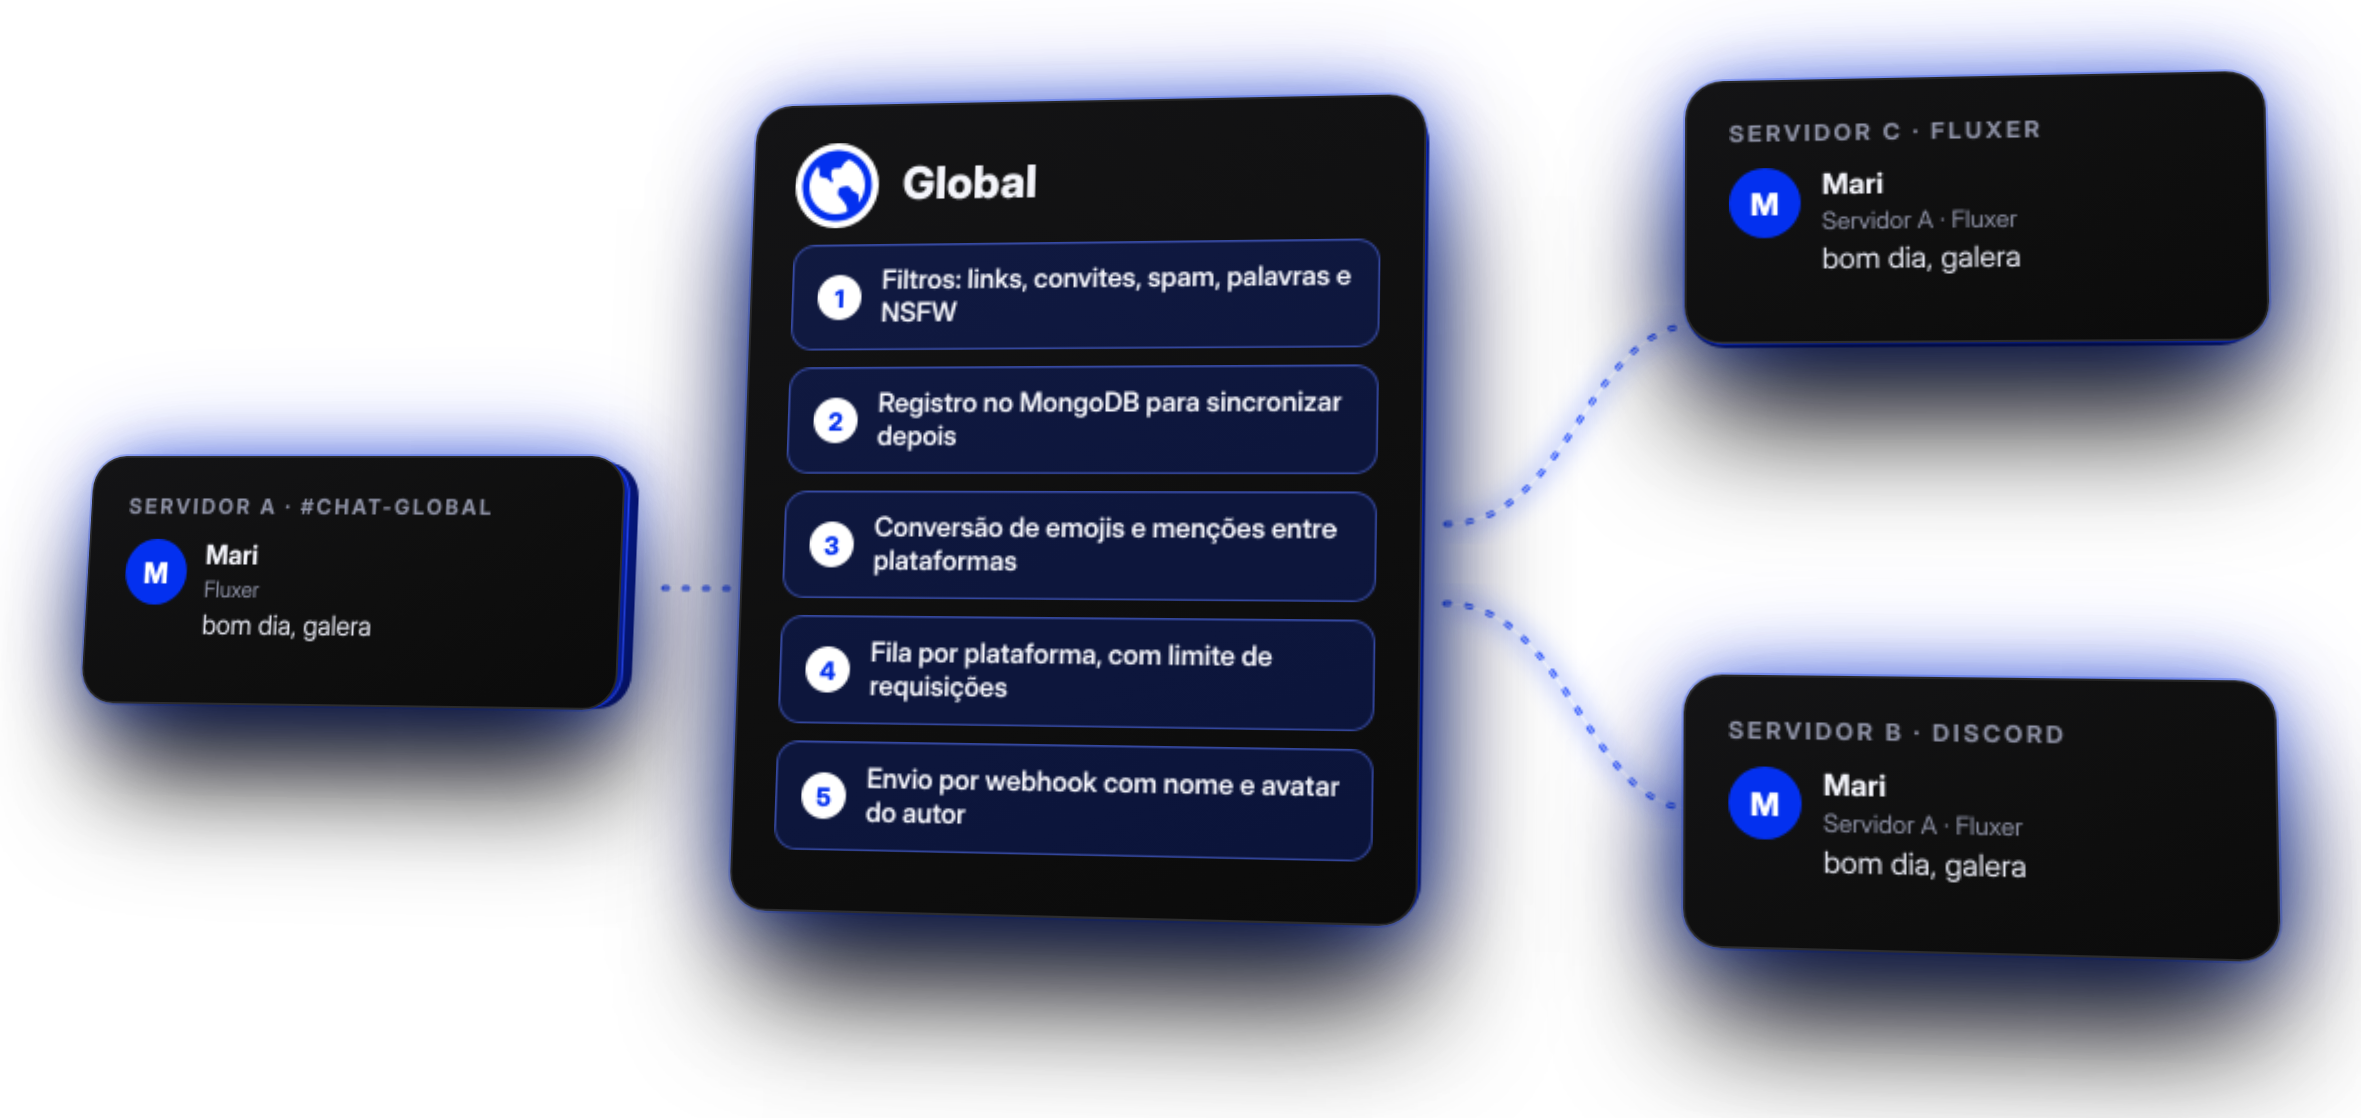
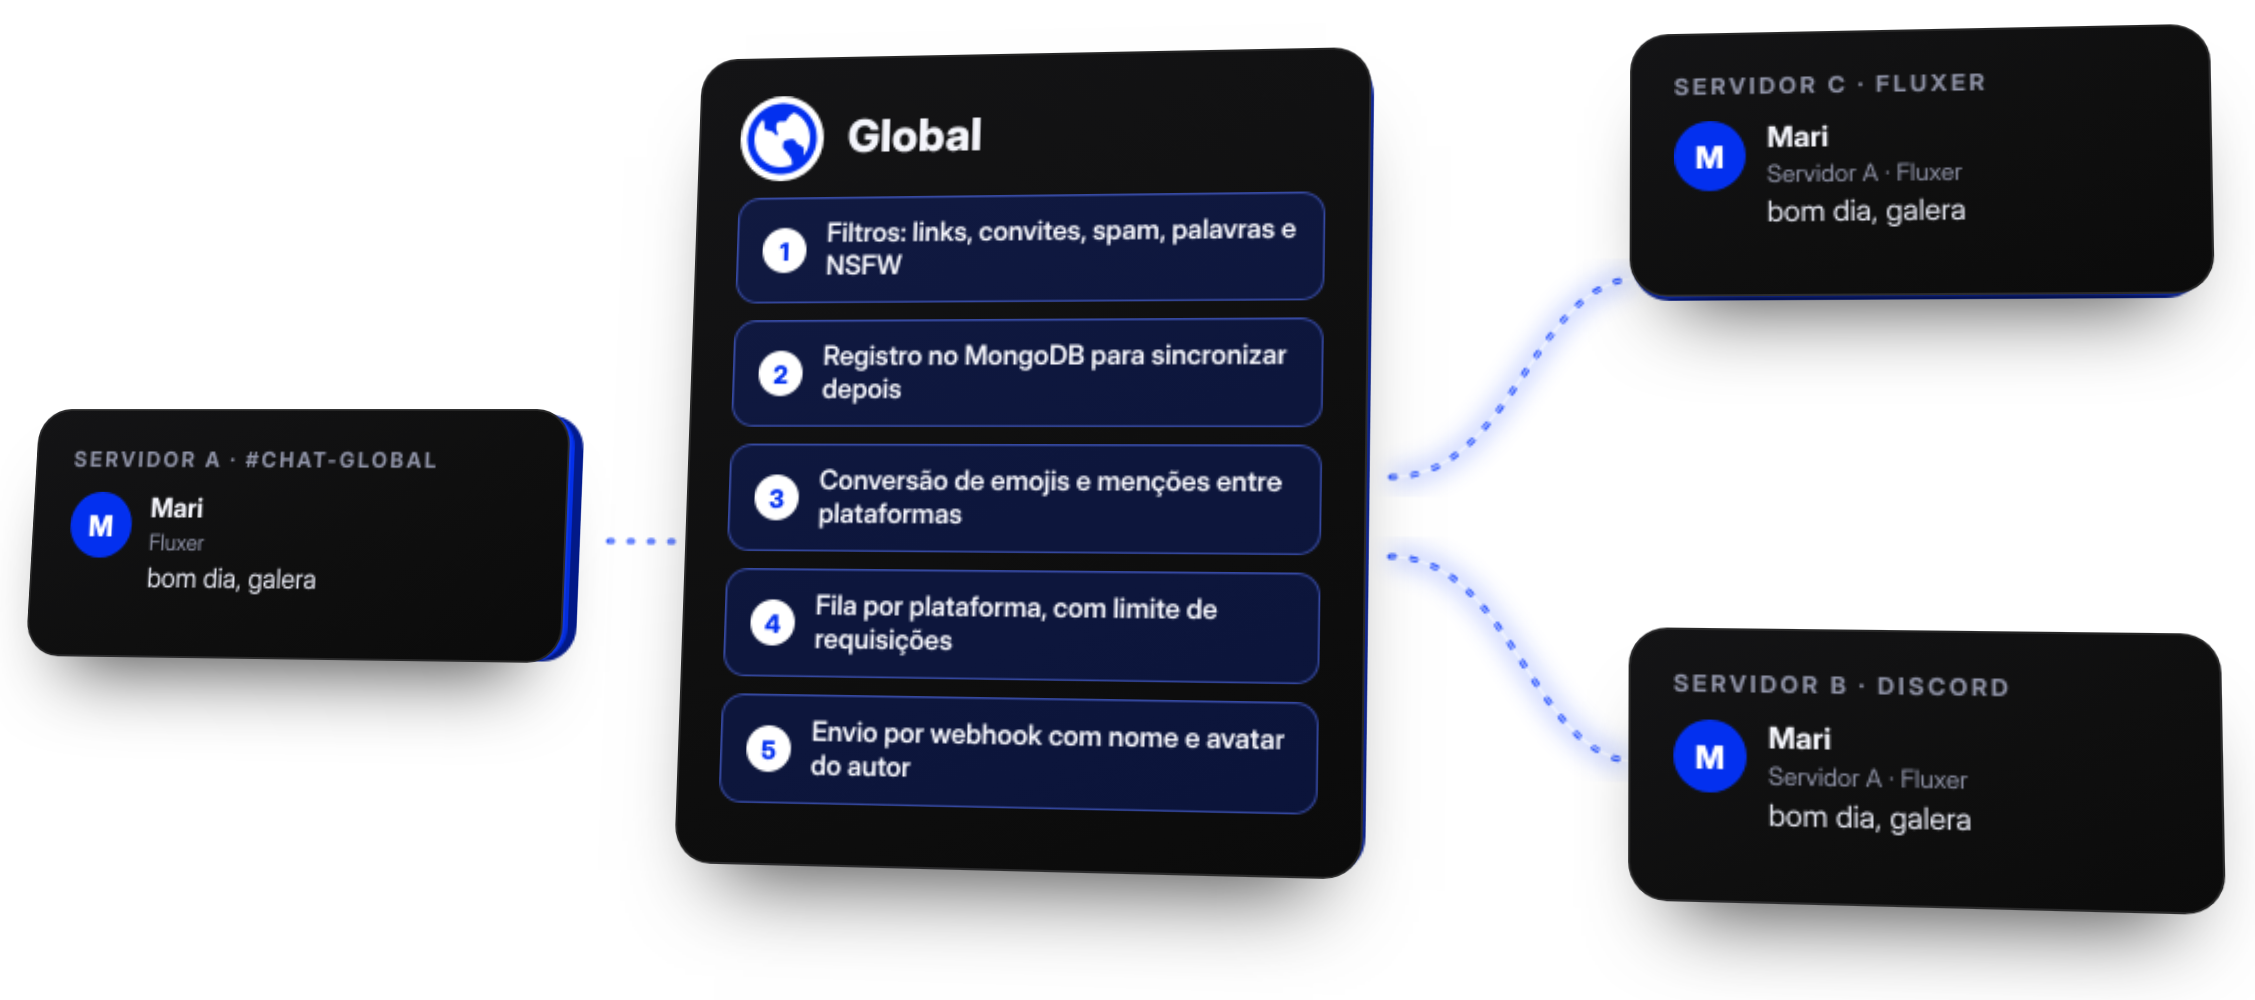
Add files via upload

diff --git a/profile/README.md b/profile/README.md
@@ -1,12 +1,18 @@
 <div align="center">
 
-<a href="https://globalbot.site"><img src="https://raw.githubusercontent.com/globaloficial/.github/main/profile/assets/org.png" alt="Global" width="760"></a>
+<a href="https://globalbot.site"><img src="https://raw.githubusercontent.com/globaloficial/.github/main/profile/assets/global.png" alt="Global" width="120" height="120"></a>
 
-<br>
+# Global
+
+Um chat só para o Fluxer e o Discord.
 
 [![Site](https://img.shields.io/badge/site-globalbot.site-0330ef?style=flat-square&labelColor=0B0B0B)](https://globalbot.site)
 [![Bot](https://img.shields.io/badge/bot-globaloficial%2Fglobal-0330ef?style=flat-square&labelColor=0B0B0B&logo=github)](https://github.com/globaloficial/global)
 [![Fluxer](https://img.shields.io/badge/Fluxer-adicionar-0330ef?style=flat-square&labelColor=0B0B0B)](https://web.fluxer.app/oauth2/authorize?client_id=1562253521942745089&scope=bot&permissions=4503600164629568)
+
+<br>
+
+<img src="https://raw.githubusercontent.com/globaloficial/.github/main/profile/assets/chat.png" alt="Mensagens do Fluxer e do Discord chegando no Global" width="640">
 
 </div>
 
@@ -15,9 +21,9 @@
 <h2 align="center">Sobre</h2>
 
 <p align="center">
-O Global é um chat que atravessa servidores.<br>
-Cada comunidade escolhe um canal, e as mensagens aparecem nos canais de todas as outras,<br>
-no <a href="https://fluxer.app">Fluxer</a> e no Discord, com edições, exclusões e replies sincronizados.
+O Global junta comunidades do <a href="https://fluxer.app">Fluxer</a> e do Discord num mesmo chat.<br>
+Cada servidor escolhe um canal, e o que é escrito ali aparece nos canais dos outros.<br>
+Editar, apagar e responder também funciona entre os servidores.
 </p>
 
 <br>
@@ -25,7 +31,7 @@ no <a href="https://fluxer.app">Fluxer</a> e no Discord, com edições, exclusõ
 <h2 align="center">Como funciona</h2>
 
 <div align="center">
-<img src="https://raw.githubusercontent.com/globaloficial/.github/main/profile/assets/fluxo.png" alt="Fluxo de uma mensagem pelo Global" width="720">
+<img src="https://raw.githubusercontent.com/globaloficial/.github/main/profile/assets/fluxo.png" alt="O caminho de uma mensagem pelo Global" width="760">
 </div>
 
 <br>
